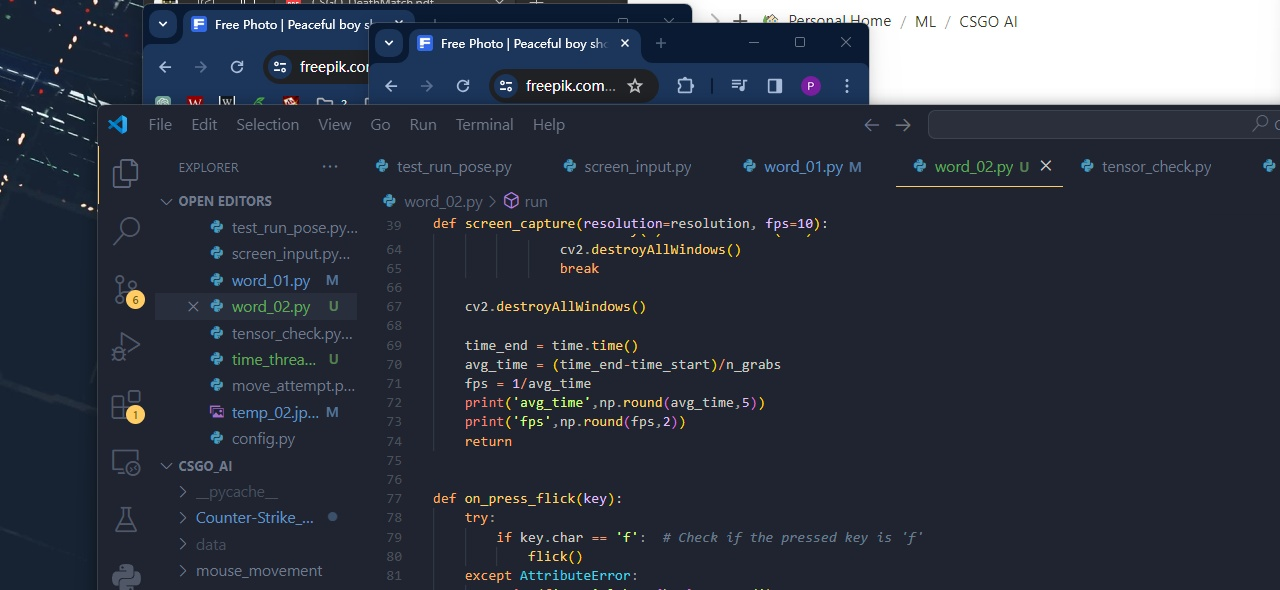
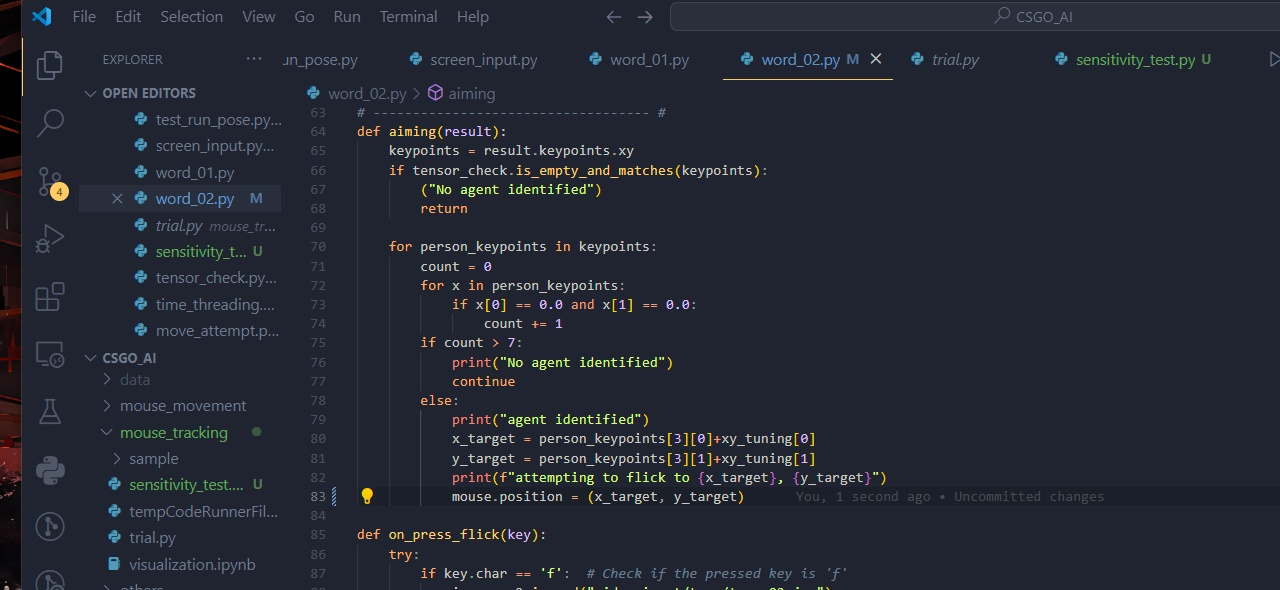
switched to pynput as the time gap between each gap is smaller, which means more potential to make the mouse movement smoother

diff --git a/word_02.py b/word_02.py
@@ -4,8 +4,7 @@ import time
 import threading
 
 import win32gui
-import pyautogui
-from pynput import keyboard
+from pynput import keyboard, mouse
 
 from ultralytics import YOLO
 import torch
@@ -57,6 +56,8 @@ def screen_capture(resolution=resolution, fps=10):
     print('fps',np.round(fps,2))
     return
 
+
+
 # ----------------------------------- # 
 # ----------------------------------- # 
 # ----------Aiming Section ---------- # 
@@ -81,7 +82,7 @@ def aiming(result):
             x_target = person_keypoints[3][0]+xy_tuning[0]
             y_target = person_keypoints[3][1]+xy_tuning[1]
             print(f"attempting to flick to {x_target}, {y_target}")
-            pyautogui.moveTo(x_target, y_target)
+            mouse.position = (x_target, y_target)
 
 def on_press_flick(key):
     try:
@@ -94,7 +95,6 @@ def on_press_flick(key):
         print(f'Special key {key} pressed')
 
 def on_release(key):
-    print(f'Key {key} released')
     # Stop listener
     if key == keyboard.Key.esc:
         return False    
@@ -108,12 +108,12 @@ def auto_aim():
             on_release=on_release) as listener:
         listener.join()
         
-        
 # ----------------------------------- # 
 # ----------------------------------- # 
 # ------Load model & threading ------ # 
 # ----------------------------------- # 
 # ----------------------------------- # 
+mouse = mouse.Controller()
 model = YOLO('pose_identification/models/YOLOv8l-pose.pt')
 print("model loaded")
 
@@ -126,8 +126,6 @@ def run():
     t1.join()
     t2.join()
     
-
-
 if __name__ == "__main__":
     # screen_capture()
     run()

diff --git a/mouse_tracking/sensitivity_test.py b/mouse_tracking/sensitivity_test.py
@@ -1,0 +1,22 @@
+import time
+from pynput.mouse import Button, Controller
+import pyautogui
+
+def pynput_test():
+    mouse = Controller()
+
+    for i in range(10):
+        mouse.position = (5*i, 0)
+        time.sleep(0.001)
+
+def pyautogui_test():
+    for i in range(10):
+        start = time.time()
+        pyautogui.move(5*i, 0)
+        end = time.time()
+        print(f"start: {start}, end: {end}, elapsed: {end-start}")
+
+
+if __name__ == "__main__":
+    pynput_test()
+    # pyautogui_test()
